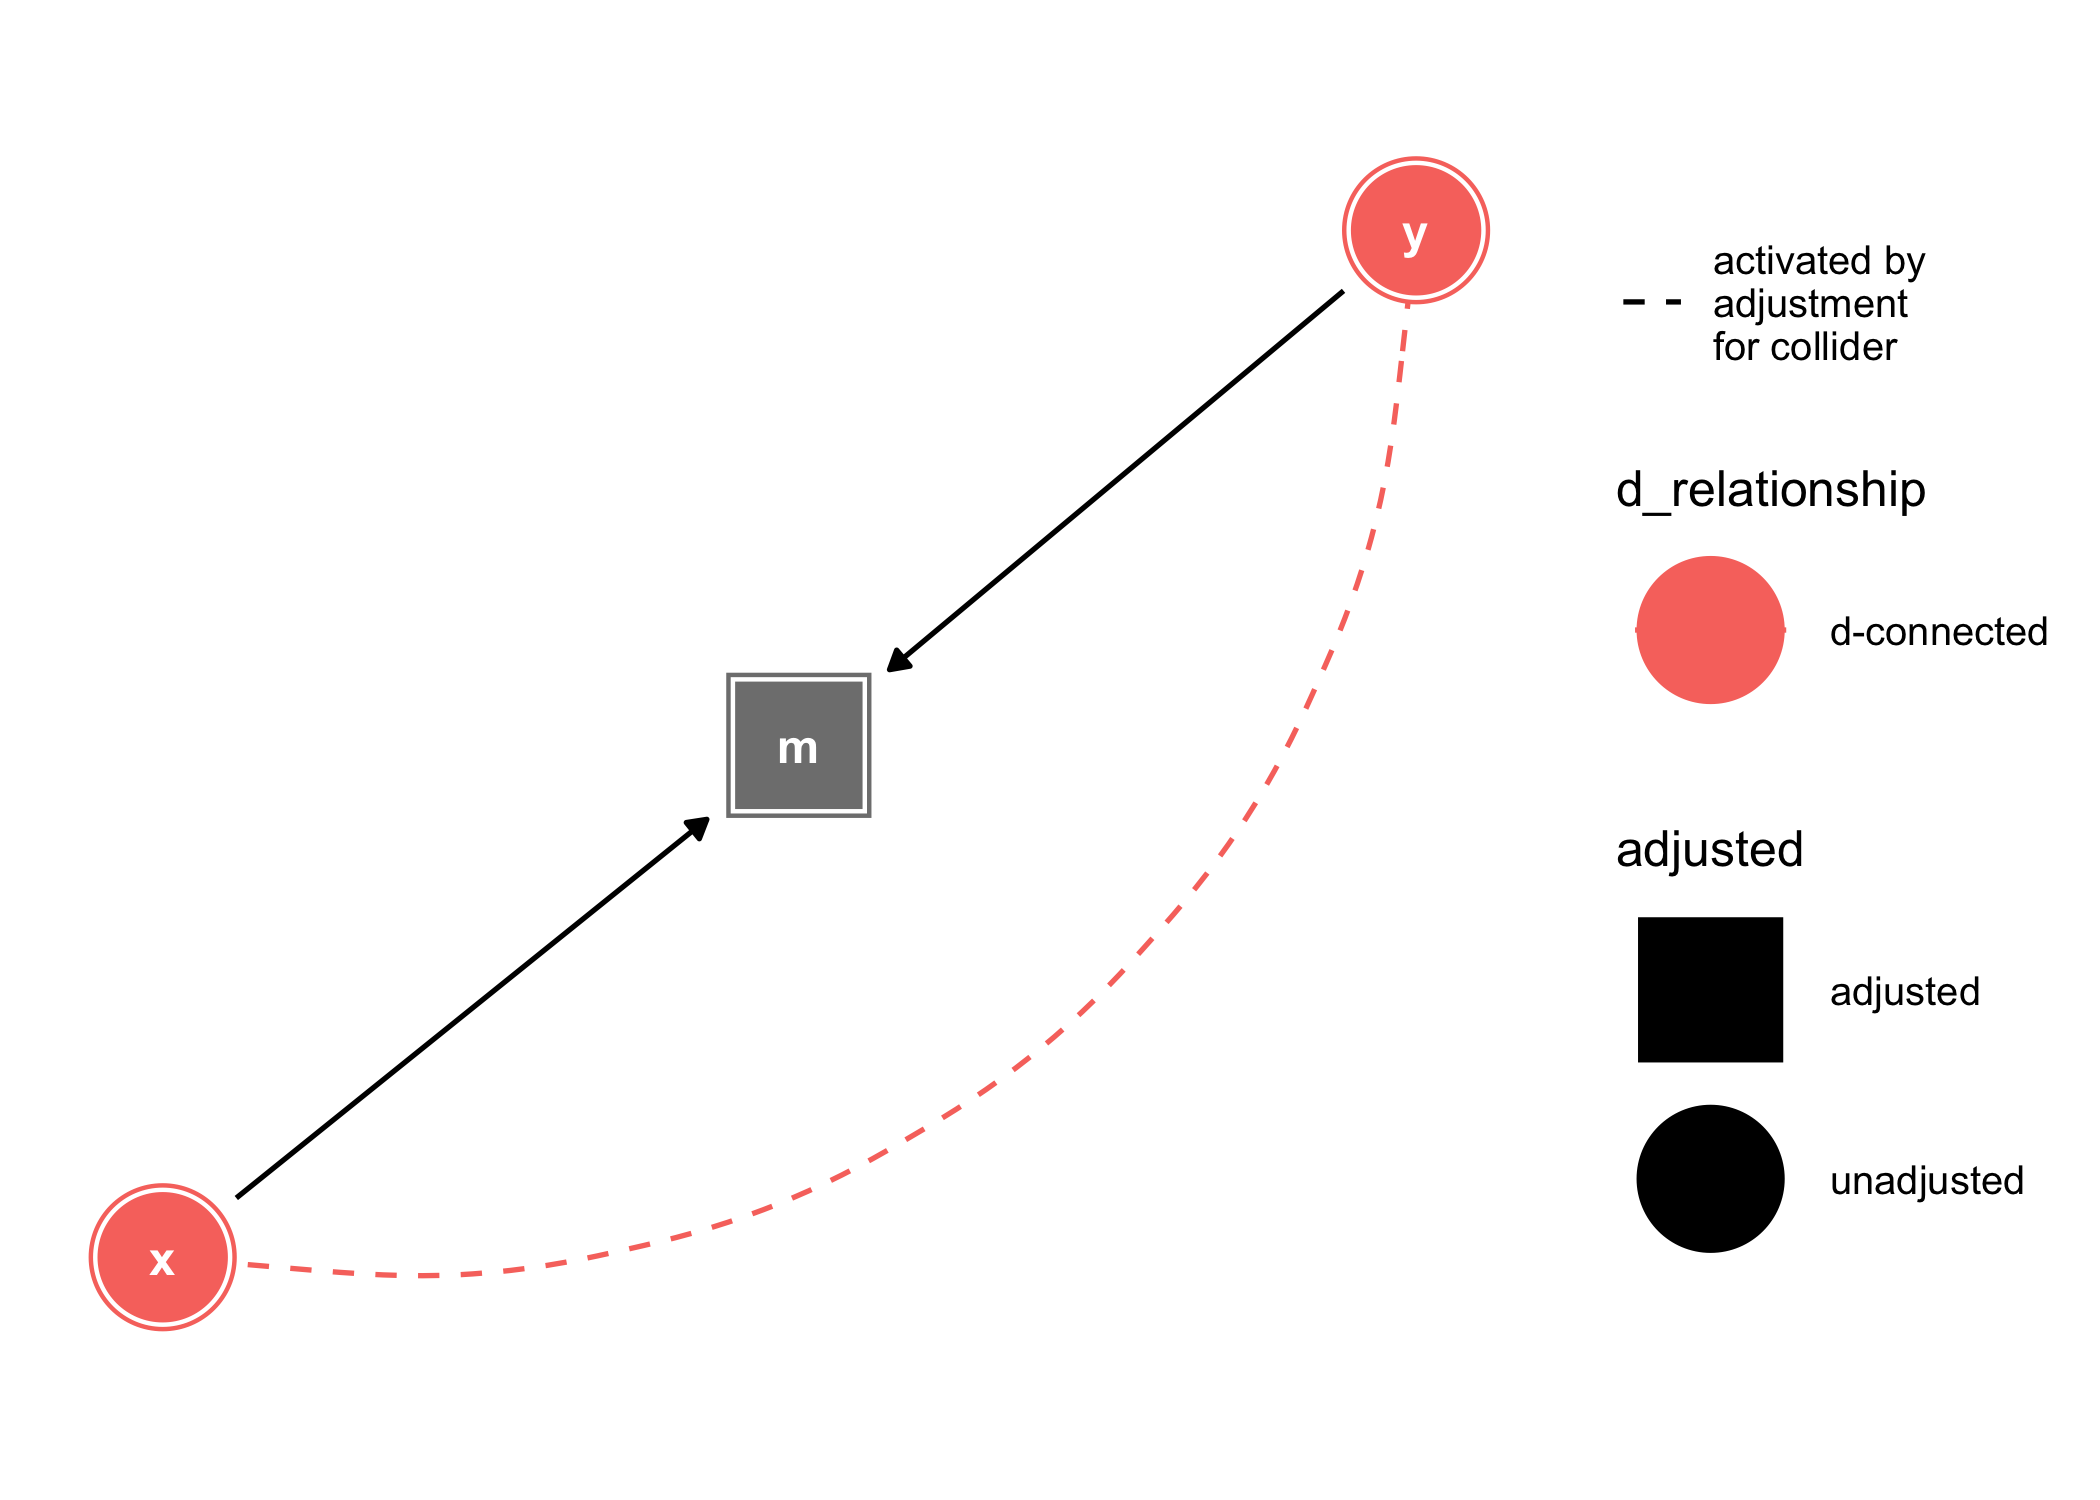
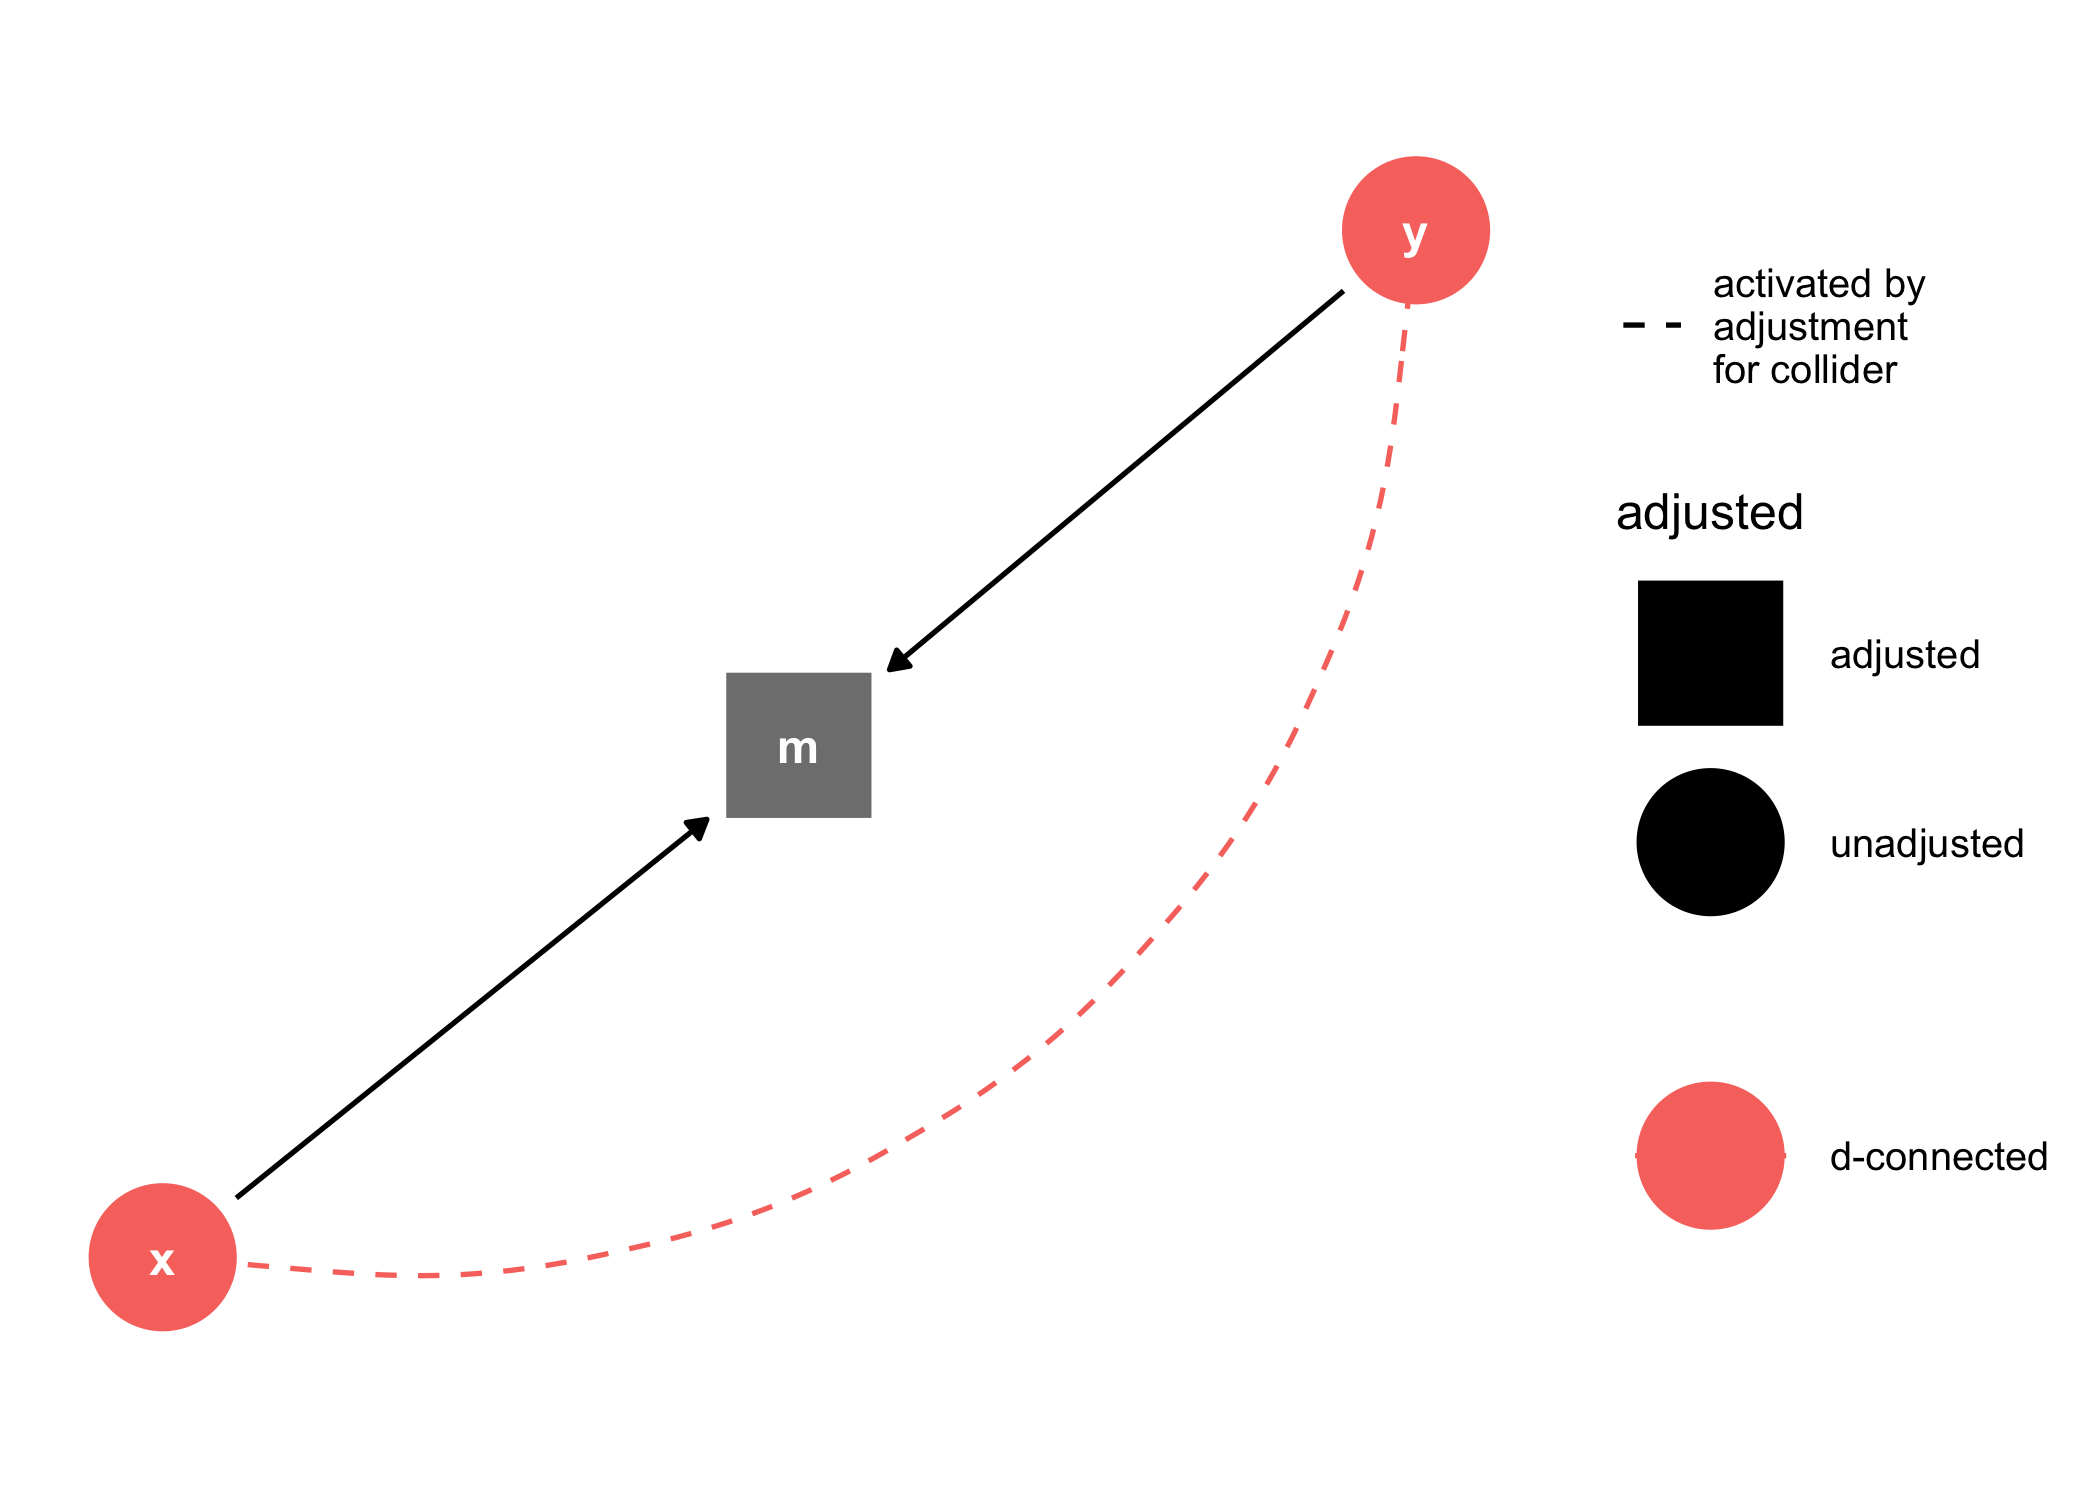
update readme

diff --git a/README.md b/README.md
@@ -106,7 +106,8 @@ ggdag(tidy_ggdag)
 <img src="man/figures/README-ggdag-1.png" width="100%" />
 
 ``` r
-ggdag_adjustment_set(tidy_ggdag, node_size = 14)
+ggdag_adjustment_set(tidy_ggdag, node_size = 14) + 
+  theme(legend.position = "bottom")
 ```
 
 <img src="man/figures/README-ggdag-2.png" width="100%" />
@@ -121,10 +122,11 @@ dagify(m ~ x + y) %>%
   ggplot(aes(x = x, y = y, xend = xend, yend = yend, shape = adjusted, col = d_relationship)) +
     geom_dag_edges(aes(end_cap = ggraph::circle(10, "mm"))) +
     geom_dag_collider_edges() +
-    geom_dag_node() +
+    geom_dag_point() +
     geom_dag_text(col = "white") +
     theme_dag(expand_y = expand_scale(c(0.2, 0.2))) + 
-    scale_adjusted()
+    scale_adjusted() +
+    scale_color_hue(name = NULL)
 ```
 
 <img src="man/figures/README-ggdag_geoms-1.png" width="100%" />
